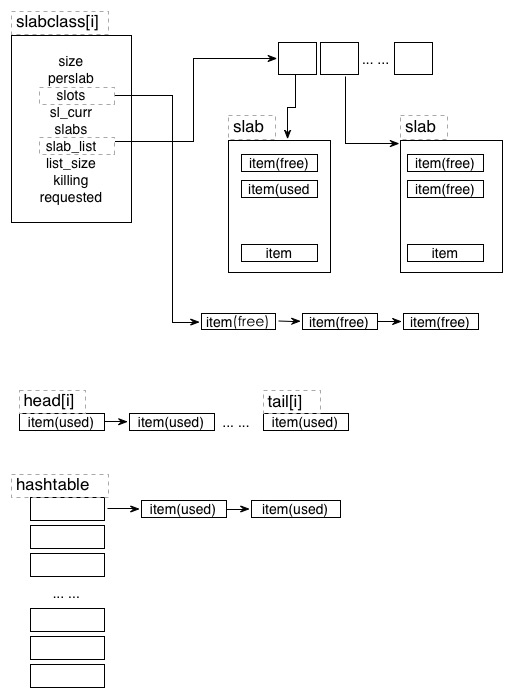
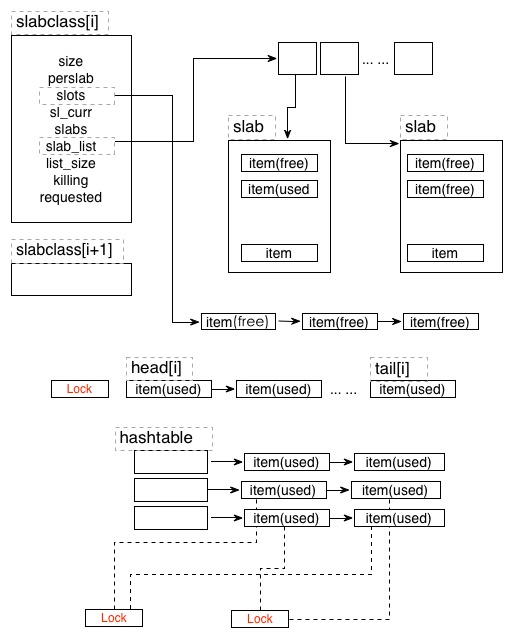
memcached

diff --git a/source/memcached.md b/source/memcached.md
@@ -115,7 +115,7 @@ size *= factor;
 ```
 
 ### 主要操作
-获取item时候，先根据item大小定位到对应的`slabclass_t`，在成员`slots`对应的列表中查找，如果查找不到再申请分配内存。
+获取item时候，先根据item大小定位到对应的`slabclass_t`，在成员`slots`对应的列表中查找，如果查找不到再申请分配一个slab。
 分配到内存后，划分为item，放入slabclass_t中。
 
 
@@ -258,7 +258,7 @@ item *item_alloc(char *key, size_t nkey, int flags, rel_time_t exptime, int nbyt
 ```
 
 
-数据读完以后再调用 complete_nread_ascii，如下代码，即使当前set的item正在被某个client读取，这里并没有把item删除掉
+数据读完以后再调用 complete_nread_ascii，如下代码，即使当前set的item正在被某个client读取，这里并没有把item释放到slab中
 ，而是在新的item放入LRU之前，把旧的item在hashtable、LRU链表中删除。
 ```c
 void complete_nread_ascii(conn *c)
@@ -275,5 +275,9 @@ void complete_nread_ascii(conn *c)
     ->item_unlock(hv);
 ->item_remove(c->item); 
 
-```     
+```   
+
+## item相关对象
+![image](https://github.com/elwin0214/note/blob/master/source/memcached.jpg?raw=true)
+
 
